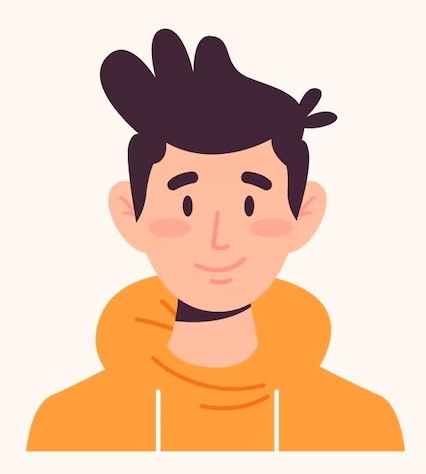
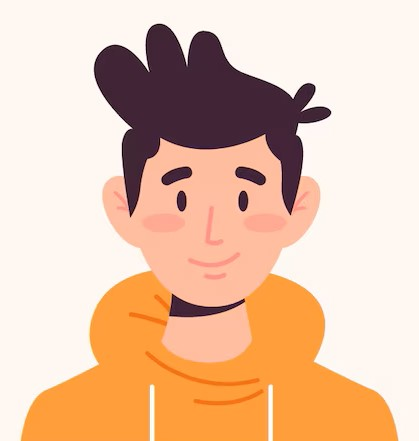
change profile

diff --git a/frontend/src/pages/Profile.js b/frontend/src/pages/Profile.js
@@ -12,6 +12,8 @@ import axios from "axios";
 import profile1 from "../images/profile1.jpg"
 import profile2 from "../images/profile2.jpg"
 import profile3 from "../images/profile3.jpg"
+import profile4 from "../images/profile4.jpg"
+import profile5 from "../images/profile5.jpg"
 import StyledButton from "../styledComponent/styldButton";
 import {Dialog, DialogContent, FormControl} from "@mui/material";
 import StyledTextField from "../styledComponent/styledTextField";
@@ -32,13 +34,12 @@ const Profile = () => {
     }, [])
 
     const fetchMyselfData = async () => {
-        console.log("AAAAA")
         const response = await axios.get("http://localhost:8080/api/employee/myself")
         setMyself(response.data)
     }
 
     const getProfileImage = () => {
-        const remainder = myself.id % 3;
+        const remainder = myself.id % 5;
         switch (remainder) {
             case 0:
                 return profile1;
@@ -46,6 +47,10 @@ const Profile = () => {
                 return profile2;
             case 2:
                 return profile3;
+            case 3:
+                return profile4;
+            case 4:
+                return profile5;
             default:
                 return profile1;
         }
@@ -72,7 +77,7 @@ const Profile = () => {
         useEffect(() => {
             if(password.trim() && password.length >= 6) {
                 setDisableChange(false)
-            }else {
+            } else {
                 setDisableChange(true)
             }
 
@@ -147,38 +152,19 @@ const Profile = () => {
                                         src={getProfileImage()}
                                         alt="avatar"
                                         className="rounded-circle"
-                                        style={{ width: '130px', height: '130px', objectFit: 'cover' }}
+                                        style={{ width: '140px', height: '140px', objectFit: 'cover' }}
                                     />
                                     <p style={{marginTop: '10px', marginBottom: '5px'}} className="text-muted">{myself.role ? myself.role.charAt(0).toUpperCase() + myself.role.toLowerCase().slice(1) : ""}</p>
-                                    <p className="text-muted">Salary: {myself.salary}₴</p>
                                 </MDBCardBody>
-                                <MDBRow>
-                                    <MDBCol sm="3">
-                                        <MDBCardText>Surname</MDBCardText>
-                                    </MDBCol>
-                                    <MDBCol sm="9">
-                                        <MDBCardText className="text-muted">{myself.surname}</MDBCardText>
-                                    </MDBCol>
-                                </MDBRow>
-                                <hr style={{margin: '10px 0'}} />
                                 <MDBRow>
                                     <MDBCol sm="3">
                                         <MDBCardText>Name</MDBCardText>
                                     </MDBCol>
                                     <MDBCol sm="9">
-                                        <MDBCardText className="text-muted">{myself.name}</MDBCardText>
+                                        <MDBCardText className="text-muted">{myself.surname} {myself.name} {myself.patronymic}</MDBCardText>
                                     </MDBCol>
                                 </MDBRow>
-                                <hr style={{margin: '10px 0'}}/>
-                                <MDBRow>
-                                    <MDBCol sm="3">
-                                        <MDBCardText>Patronymic</MDBCardText>
-                                    </MDBCol>
-                                    <MDBCol sm="9">
-                                        <MDBCardText className="text-muted">{myself.patronymic}</MDBCardText>
-                                    </MDBCol>
-                                </MDBRow>
-                                <hr style={{margin: '10px 0'}}/>
+                                <hr />
                                 <MDBRow>
                                     <MDBCol sm="3">
                                         <MDBCardText>Mobile</MDBCardText>
@@ -187,7 +173,7 @@ const Profile = () => {
                                         <MDBCardText className="text-muted">{myself.phoneNumber}</MDBCardText>
                                     </MDBCol>
                                 </MDBRow>
-                                <hr style={{margin: '10px 0'}}/>
+                                <hr/>
                                 <MDBRow>
                                     <MDBCol sm="3">
                                         <MDBCardText>Birth Date</MDBCardText>
@@ -196,7 +182,7 @@ const Profile = () => {
                                         <MDBCardText className="text-muted">{myself.dateOfBirth}</MDBCardText>
                                     </MDBCol>
                                 </MDBRow>
-                                <hr style={{margin: '10px 0'}}/>
+                                <hr/>
                                 <MDBRow>
                                     <MDBCol sm="3">
                                         <MDBCardText>Start Date</MDBCardText>
@@ -205,31 +191,13 @@ const Profile = () => {
                                         <MDBCardText className="text-muted">{myself.dateOfStart}</MDBCardText>
                                     </MDBCol>
                                 </MDBRow>
-                                <hr style={{margin: '10px 0'}}/>
+                                <hr/>
                                 <MDBRow>
                                     <MDBCol sm="3">
-                                        <MDBCardText>City</MDBCardText>
+                                        <MDBCardText>Address</MDBCardText>
                                     </MDBCol>
                                     <MDBCol sm="9">
-                                        <MDBCardText className="text-muted">{myself.city}</MDBCardText>
-                                    </MDBCol>
-                                </MDBRow>
-                                <hr style={{margin: '10px 0'}}/>
-                                <MDBRow>
-                                    <MDBCol sm="3">
-                                        <MDBCardText>Street</MDBCardText>
-                                    </MDBCol>
-                                    <MDBCol sm="9">
-                                        <MDBCardText className="text-muted">{myself.street}</MDBCardText>
-                                    </MDBCol>
-                                </MDBRow>
-                                <hr style={{margin: '10px 0'}}/>
-                                <MDBRow>
-                                    <MDBCol sm="3">
-                                        <MDBCardText>Zip Code</MDBCardText>
-                                    </MDBCol>
-                                    <MDBCol sm="9">
-                                        <MDBCardText className="text-muted">{myself.zipCode}</MDBCardText>
+                                        <MDBCardText className="text-muted">{myself.city}, {myself.street}, {myself.zipCode}</MDBCardText>
                                     </MDBCol>
                                 </MDBRow>
                             </MDBCardBody>

diff --git a/frontend/src/pages/Checks.jsx b/frontend/src/pages/Checks.jsx
@@ -462,7 +462,9 @@ const Checks = () => {
                                                 <div>
                                                     <ButtonGroup>
                                                         <Button
-                                                            sx={{border: "none", color: '#748c8d', padding: "5px"}}
+                                                            sx={{border: "none", color: '#748c8d', padding: "5px", '&:hover': {
+                                                                    border: 'none'
+                                                                }}}
                                                             aria-label="reduce"
                                                             onClick={() => {
                                                                 handleDecreaseCount(product)
@@ -471,7 +473,9 @@ const Checks = () => {
                                                             <RemoveIcon fontSize="small"/>
                                                         </Button>
                                                         <Button
-                                                            sx={{border: "none", color: '#748c8d', padding: "5px"}}
+                                                            sx={{border: "none", color: '#748c8d', padding: "5px", '&:hover': {
+                                                                    border: 'none'
+                                                                }}}
                                                             aria-label="increase"
                                                             onClick={() => {
                                                                 handleIncreaseCount(product)
@@ -481,7 +485,9 @@ const Checks = () => {
                                                             <AddIcon fontSize="small"/>
                                                         </Button>
                                                         <Button
-                                                            sx={{border: "none", color: '#748c8d', padding: "5px"}}
+                                                            sx={{border: "none", color: '#748c8d', padding: "5px", '&:hover': {
+                                                                    border: 'none'
+                                                                }}}
                                                             aria-label="increase"
                                                             onClick={() => {
                                                                 handleDelete(product);
